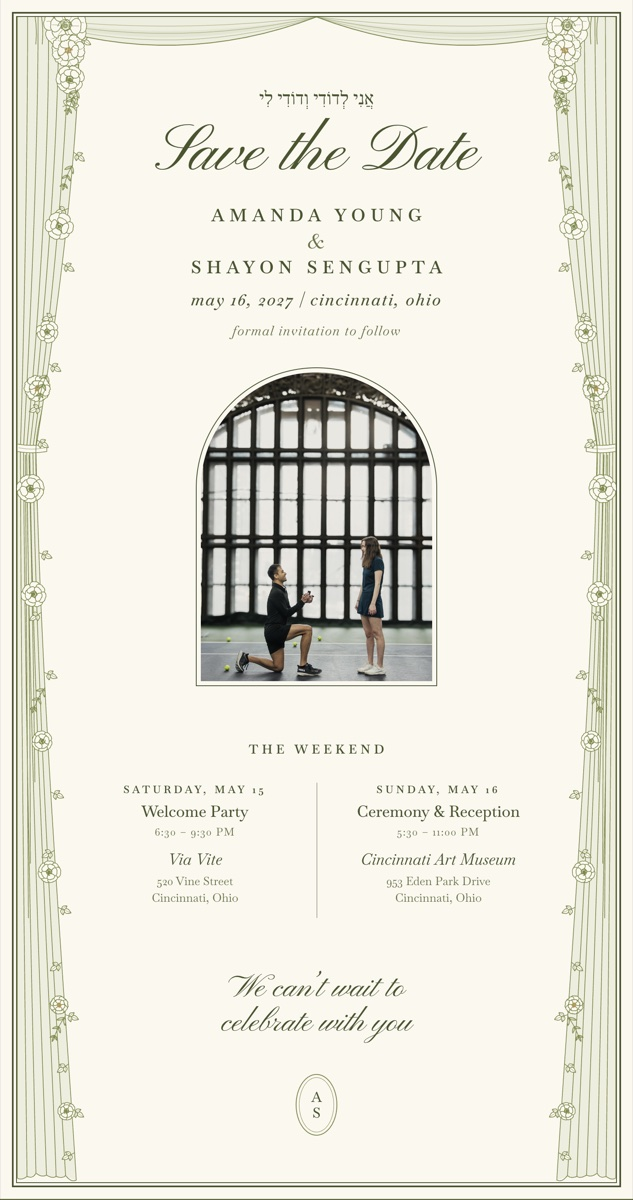
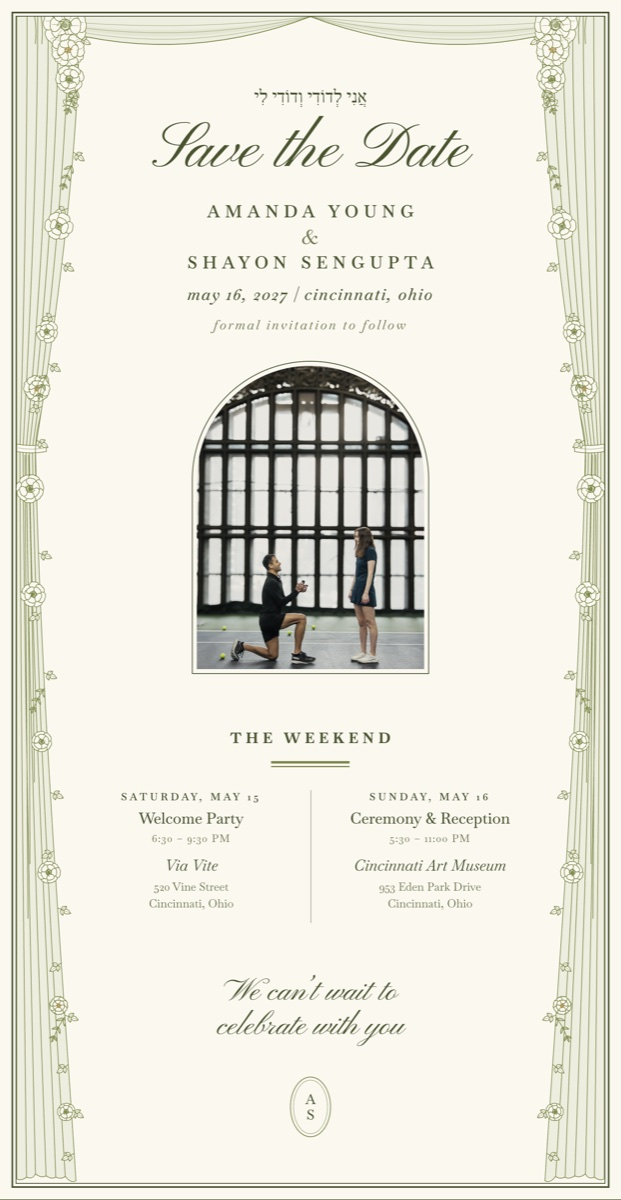
Museo website touches: double rule under headings, bolder headings, wider italic spacing

diff --git a/index.html b/index.html
@@ -13,19 +13,19 @@
 <meta property="og:type" content="website" />
 <meta property="og:url" content="https://shayon297.github.io/save-the-date/" />
 <meta property="og:site_name" content="Amanda &amp; Shayon" />
-<meta property="og:image" content="https://shayon297.github.io/save-the-date/assets/og.jpg?v=16" />
+<meta property="og:image" content="https://shayon297.github.io/save-the-date/assets/og.jpg?v=17" />
 <meta property="og:image:width" content="1200" />
 <meta property="og:image:height" content="630" />
 <meta property="og:image:alt" content="Save the Date — Amanda Young and Shayon Sengupta, May 16, 2027, Cincinnati, Ohio. Formal invitation to follow." />
 <meta name="twitter:card" content="summary_large_image" />
 <meta name="twitter:title" content="Save the Date — Amanda &amp; Shayon" />
 <meta name="twitter:description" content="Sunday, May 16, 2027 · Cincinnati Art Museum · Cincinnati, Ohio" />
-<meta name="twitter:image" content="https://shayon297.github.io/save-the-date/assets/og.jpg?v=16" />
+<meta name="twitter:image" content="https://shayon297.github.io/save-the-date/assets/og.jpg?v=17" />
 
 <link rel="preconnect" href="https://fonts.googleapis.com">
 <link rel="preconnect" href="https://fonts.gstatic.com" crossorigin>
-<link href="https://fonts.googleapis.com/css2?family=Baskervville:ital,wght@0,400;0,500;0,600;1,400;1,500&family=Frank+Ruhl+Libre:wght@400;500&family=Pinyon+Script&display=swap" rel="stylesheet">
-<link rel="stylesheet" href="styles.css?v=51" />
+<link href="https://fonts.googleapis.com/css2?family=Baskervville:ital,wght@0,400;0,500;0,600;0,700;1,400;1,500&family=Frank+Ruhl+Libre:wght@400;500&family=Pinyon+Script&display=swap" rel="stylesheet">
+<link rel="stylesheet" href="styles.css?v=52" />
 <script>
   // ?preview=email / ?preview=og switch the page into fixed layouts used to render the share images
   var pv = new URLSearchParams(location.search).get("preview");

diff --git a/styles.css b/styles.css
@@ -135,7 +135,7 @@ body{
 .hero-note{
   font-style: italic;
   font-size: clamp(14px, 2.3vw, 16px);
-  letter-spacing: 0.06em;
+  letter-spacing: 0.14em;
   color: var(--ink-soft);
   margin: 14px 0 0;
 }
@@ -201,7 +201,7 @@ body{
 .countdown{
   font-style: italic;
   font-size: 15px;
-  letter-spacing: 0.04em;
+  letter-spacing: 0.14em;
   color: var(--ink-soft);
   margin: 0;
 }
@@ -215,8 +215,8 @@ body{
 
 /* ---------- weekend ---------- */
 .section-title{
-  font-weight: 600;
-  font-size: clamp(13px, 2.3vw, 15px);
+  font-weight: 700;
+  font-size: clamp(15px, 2.6vw, 18px);
   letter-spacing: 0.3em;
   padding-left: 0.3em;      /* optically centre tracked caps */
   text-transform: uppercase;
@@ -224,6 +224,17 @@ body{
   text-wrap: balance;
   margin: 0 0 28px;
   color: var(--ink);
+}
+/* museo's double rule under each section heading: a thick bar over a thin one */
+.section-title::after{
+  content: "";
+  display: block;
+  width: 96px;
+  height: 3px;
+  margin: 14px auto 0;
+  border-top: 3px solid var(--olive);
+  border-bottom: 1.5px solid var(--olive);
+  transform: translateX(-0.15em);   /* undo the tracked caps' optical offset */
 }
 .events{
   display: grid;
@@ -305,10 +316,11 @@ body{
 
 /* ---------- mailing address form ---------- */
 .address{ text-align: center; }
-.address .section-title{ margin-bottom: 6px; }
+.address .section-title{ margin-bottom: 18px; }
 .address-sub{
   font-style: italic;
   font-size: 16px;
+  letter-spacing: 0.12em;
   color: var(--ink-soft);
   margin: 0 0 26px;
   text-wrap: balance;

diff --git a/email.html b/email.html
@@ -22,7 +22,7 @@
         <tr>
           <td align="center" style="padding:0;">
             <a href="https://shayon297.github.io/save-the-date/" style="text-decoration:none;">
-              <img src="https://shayon297.github.io/save-the-date/assets/card-email.jpg?v=18" width="600" alt="Save the Date — Shayon Sengupta and Amanda Young, Sunday, May 16, 2027, Cincinnati Art Museum" style="display:block;width:100%;max-width:600px;height:auto;border:0;box-shadow:0 18px 40px -22px rgba(0,0,0,0.45);" />
+              <img src="https://shayon297.github.io/save-the-date/assets/card-email.jpg?v=19" width="600" alt="Save the Date — Shayon Sengupta and Amanda Young, Sunday, May 16, 2027, Cincinnati Art Museum" style="display:block;width:100%;max-width:600px;height:auto;border:0;box-shadow:0 18px 40px -22px rgba(0,0,0,0.45);" />
             </a>
           </td>
         </tr>

diff --git a/CLAUDE.md b/CLAUDE.md
@@ -78,8 +78,10 @@ and a phone width (375px) before calling a change done.
 - Hebrew: only the verse אֲנִי לְדוֹדִי וְדוֹדִי לִי at the top, no translation.
   No Hebrew date (that belongs on the formal invitation).
 - The engagement photo sits in an arch-topped frame under the header.
-- No ornamental dividers, as on museo: sections are separated by space and
-  the change of type (script, spaced capitals, lowercase italics).
+- Section headings are bold spaced capitals with museo's website double rule under
+  them (a short thick-over-thin olive bar). No other dividers.
+- Soft lowercase italic lines (formal invitation to follow, address subtitle, days to go)
+  are widely letter-spaced, as on the museo website.
 - Countdown is a quiet line in the closing ("224 days to go"); "formal invitation
   to follow" sits under the date line in lowercase italics.
 - Calendar buttons are outlined (ghost); only Send is solid.
